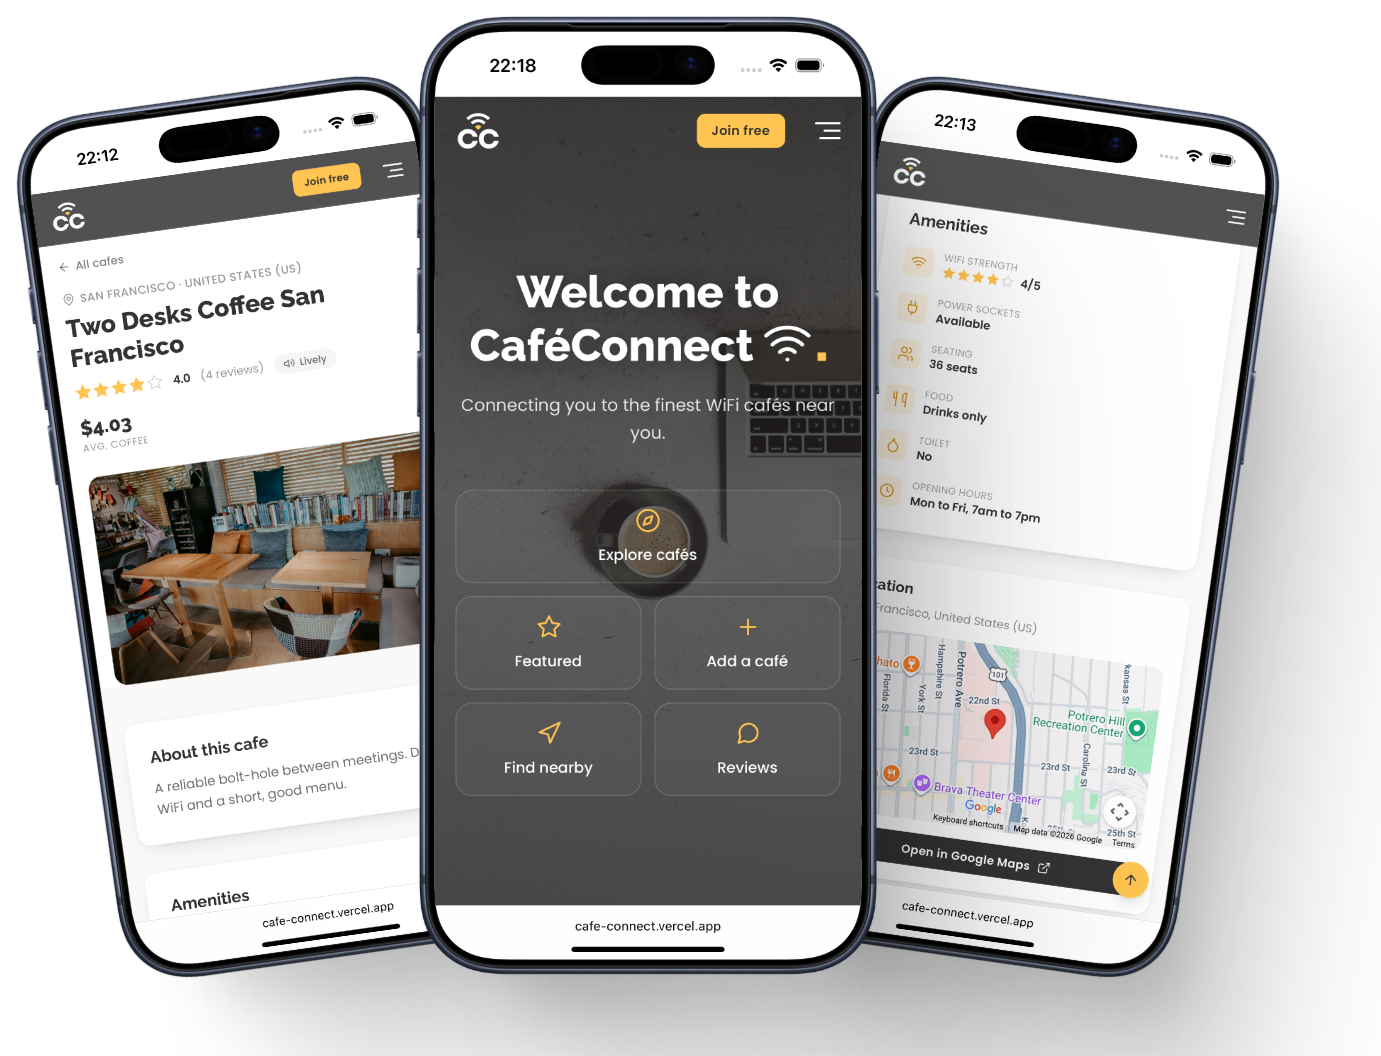
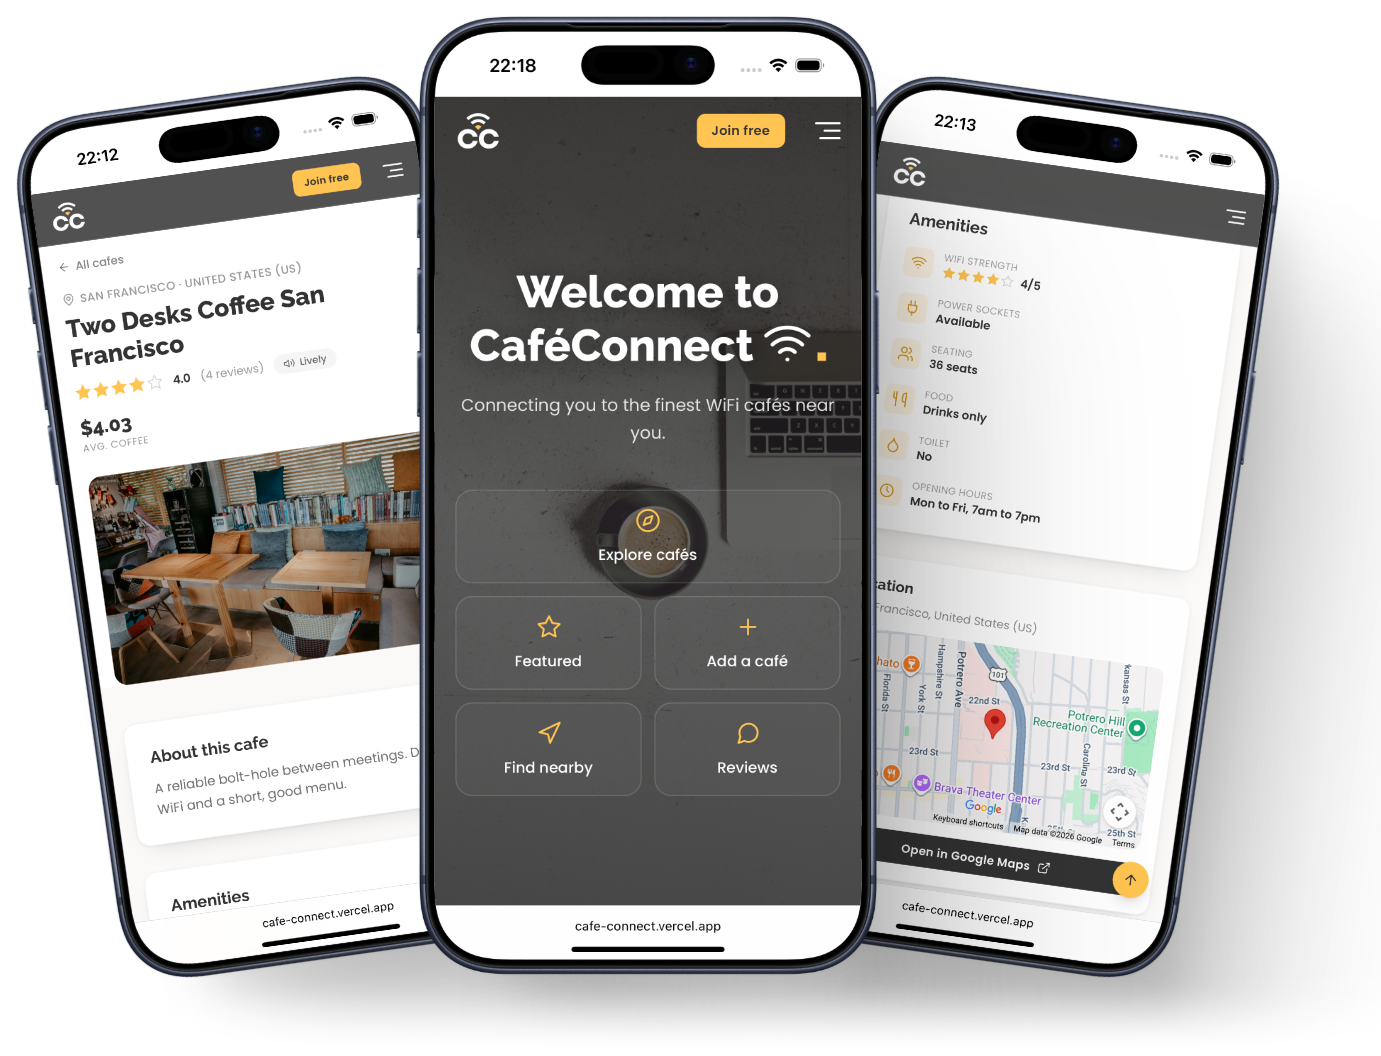
edit image scaling, del low-res folder

Changed region(s): [[0.2491, 0.9375, 0.903, 1.0]]

diff --git a/README.md b/README.md
@@ -10,21 +10,31 @@ Browsing is open to everyone. To try the signed-in features, adding a café and 
 
 ## Screenshots
 
+##
+##
+
 <p align="center">
   <img src="screenshots/hero-mobile.png" alt="CafeConnect on mobile" width="60%"><br>
   <sub>CafeConnect on mobile: home, a listing, and amenities at a glance</sub>
 </p>
+
+##
+###
 
 <p align="center">
   <img src="screenshots/home.png" alt="The CafeConnect landing page" width="100%"><br>
   <sub>The landing page</sub>
 </p>
 
+##
+###
+
 <p align="center">
   <img src="screenshots/browse-city.png" alt="Browse cafés by city" width="100%"><br>
   <sub>Browse by city, with the directory's running totals</sub>
 </p>
 
+##
 ##
 
 <table>